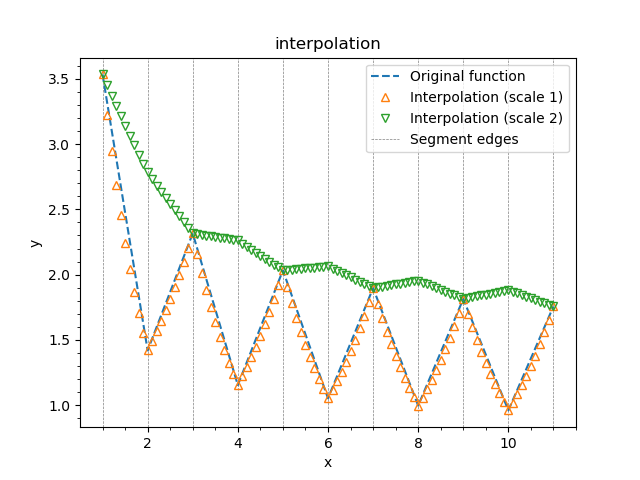
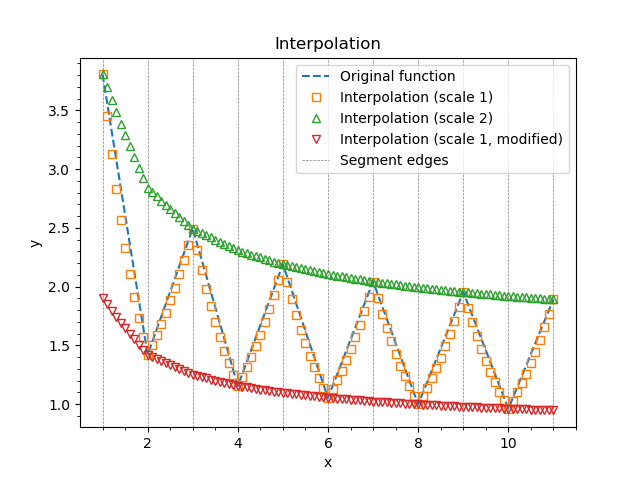
Finalize interpolation tutorial

diff --git a/macro/tutorial/complex/05_interpolation.py b/macro/tutorial/complex/05_interpolation.py
@@ -24,7 +24,7 @@ points   = C.Points(points, labels='Fine x\n(shuffled)')
 # Initialize raw function
 y0 = np.exp(1/edges.single().data()**0.5)
 # Make it saw-like by scaling all odd and even points to different sides
-y0[::2]*=1.3
+y0[::2]*=1.4
 y0[1::2]*=0.7
 y0 = C.Points(y0, labels='Coarse y\n(not scaled)')
 
@@ -72,19 +72,24 @@ interpolator.print()
 
 # Change each second parameter for second curve
 for par in pars2.values()[1::2]:
-    par.set(1.96)
+    par.set(2.0)
 
 # Print parameters
 env.globalns.printparameters(labels=True)
 
 # Plot graphs
 fig = plt.figure()
-ax = plt.subplot(111, xlabel='x', ylabel='y', title='interpolation')
+ax = plt.subplot(111, xlabel='x', ylabel='y', title='Interpolation')
 ax.minorticks_on()
 
 y0.points.points.plot_vs(edges.single(), '--', label='Original function')
-interp1.plot_vs(points.single(), '^', label='Interpolation (scale 1)', markerfacecolor='none')
-interp2.plot_vs(points.single(), 'v', label='Interpolation (scale 2)', markerfacecolor='none')
+interp1.plot_vs(points.single(), 's', label='Interpolation (scale 1)', markerfacecolor='none')
+interp2.plot_vs(points.single(), '^', label='Interpolation (scale 2)', markerfacecolor='none')
+
+for par in pars1.values()[::2]:
+    par.set(0.50)
+
+interp1.plot_vs(points.single(), 'v', label='Interpolation (scale 1, modified)', markerfacecolor='none')
 
 ax.autoscale(enable=False, axis='y')
 ymin, ymax = ax.get_ylim()

diff --git a/doc/source/tutorial/interpolation.rst b/doc/source/tutorial/interpolation.rst
@@ -112,6 +112,26 @@ inputs of `insegment` and `interp`, then we do the same for fine :math:`z` value
 `insegment` and `widths` from the `insegment` to the `interp`. `y1` is then binded to the first input while `y2` is
 binded to the second input, created by `add_input()` method.
 
+Two input functions may be interpolated by two distinct transformations within the same object.
+See the tutorial :ref:`tutorial_topology` for the more details on usage of `add_input()` and `add_transformation()` methods.
+
+Now we leave all :math:`p_1` values equal to 1 so the first graph represent the initial coarse function. For the second
+curve we set each odd parameter to 2 to compensate the saw-like structure.
+
+.. literalinclude:: ../../../macro/tutorial/complex/05_interpolation.py
+    :linenos:
+    :lines: 74-75
+
+After plotting `y1` and `y2` let us set each even :math:`p_1` to 0.5 and plot again. The result may be found on the
+picture below.
+
 .. figure:: ../../img/tutorial/05_interpolation.png
     :align: center
+
+    Example of exponential interpolation.
+
+The dashed lines black represent the segment edges, the dashed blue line is the initial coarse function defined on these
+edges. Orange squares represent the interpolated function. They are slightly off the straight line since we have used
+exponential interpolation. Green triangles are for `y2` and the red triangles are for `y1` again after we scaled each
+even parameter down.
 

diff --git a/doc/source/tutorial/integration_2d.rst b/doc/source/tutorial/integration_2d.rst
@@ -58,7 +58,6 @@ The value of the function is then computed as :math:`f_{ij}=f(X_\text{mesh}, Y_\
 The output histogram is then defined as:
 
 .. math::
-   :label: quad2_again
 
    H_{km}
    \approx
@@ -158,7 +157,7 @@ is passed to the sine object.
 .. literalinclude:: ../../../macro/tutorial/complex/03_integral2d.py
     :lines: 45-46
 
-These two lines implement the function :ref:`integral_2d_function`. The output of this function is passed to the
+These two lines implement the function :eq:`integral_2d_function`. The output of this function is passed to the
 integrator:
 
 .. literalinclude:: ../../../macro/tutorial/complex/03_integral2d.py

diff --git a/doc/source/tutorial/topology.rst b/doc/source/tutorial/topology.rst
@@ -1,3 +1,5 @@
+.. _tutorial_topology:
+
 Lazy evaluation and graph structure
 '''''''''''''''''''''''''''''''''''
 

diff --git a/doc/source/index.rst b/doc/source/index.rst
@@ -19,7 +19,7 @@ Contents
 
 .. toctree::
    :maxdepth: 2
-   
+
    intro
    compilation
    overview
